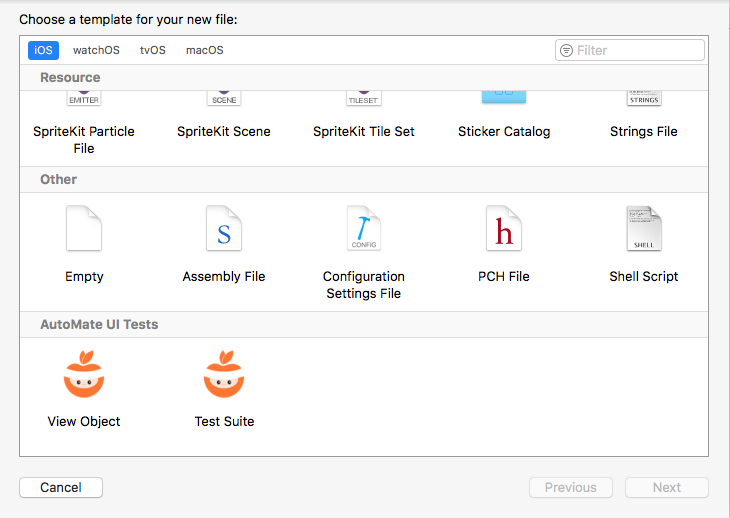
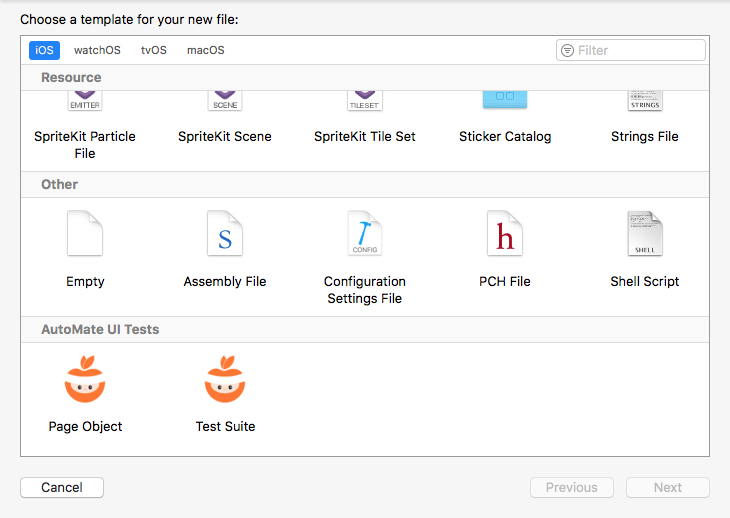
Post release fixes

diff --git a/README.md b/README.md
@@ -12,7 +12,7 @@
 
 # AutoMate UI Test templates
 
-`AutoMate` is a Swift framework containing a set of helpful `XCTest` extensions for writing UI automation tests. Those Xcode templates helps starting with new UI tests utilizing View Object pattern and [`AutoMate`](https://github.com/PGSSoft/AutoMate) framework.
+[`AutoMate`](https://github.com/PGSSoft/AutoMate) is a Swift framework containing a set of helpful `XCTest` extensions for writing UI automation tests. Those Xcode templates helps starting with new UI tests utilizing Page Object pattern and [`AutoMate`](https://github.com/PGSSoft/AutoMate) framework.
 
 [![Swift 3.0](https://img.shields.io/badge/Swift-3.0-orange.svg?style=flat)](https://swift.org)
 [![License](https://img.shields.io/github/license/PGSSoft/AutoMate-Templates.svg)](https://github.com/PGSSoft/AutoMate-Templates/blob/master/LICENSE)
@@ -57,7 +57,7 @@
 
 ## Features (or ToDo)
 
-- [x] Strong-typed helpers: locators, view object templates
+- [x] Strong-typed helpers: locators, page object templates
 - [x] Base XCTestCase template
 
 ## Contributing

diff --git a/Changelog.md b/Changelog.md
@@ -4,5 +4,5 @@
 Released on 2017-03-15.
 
 #### Added
-- Strong-typed helpers: locators, view object templates
+- Strong-typed helpers: locators, page object templates
 - Base XCTestCase template
